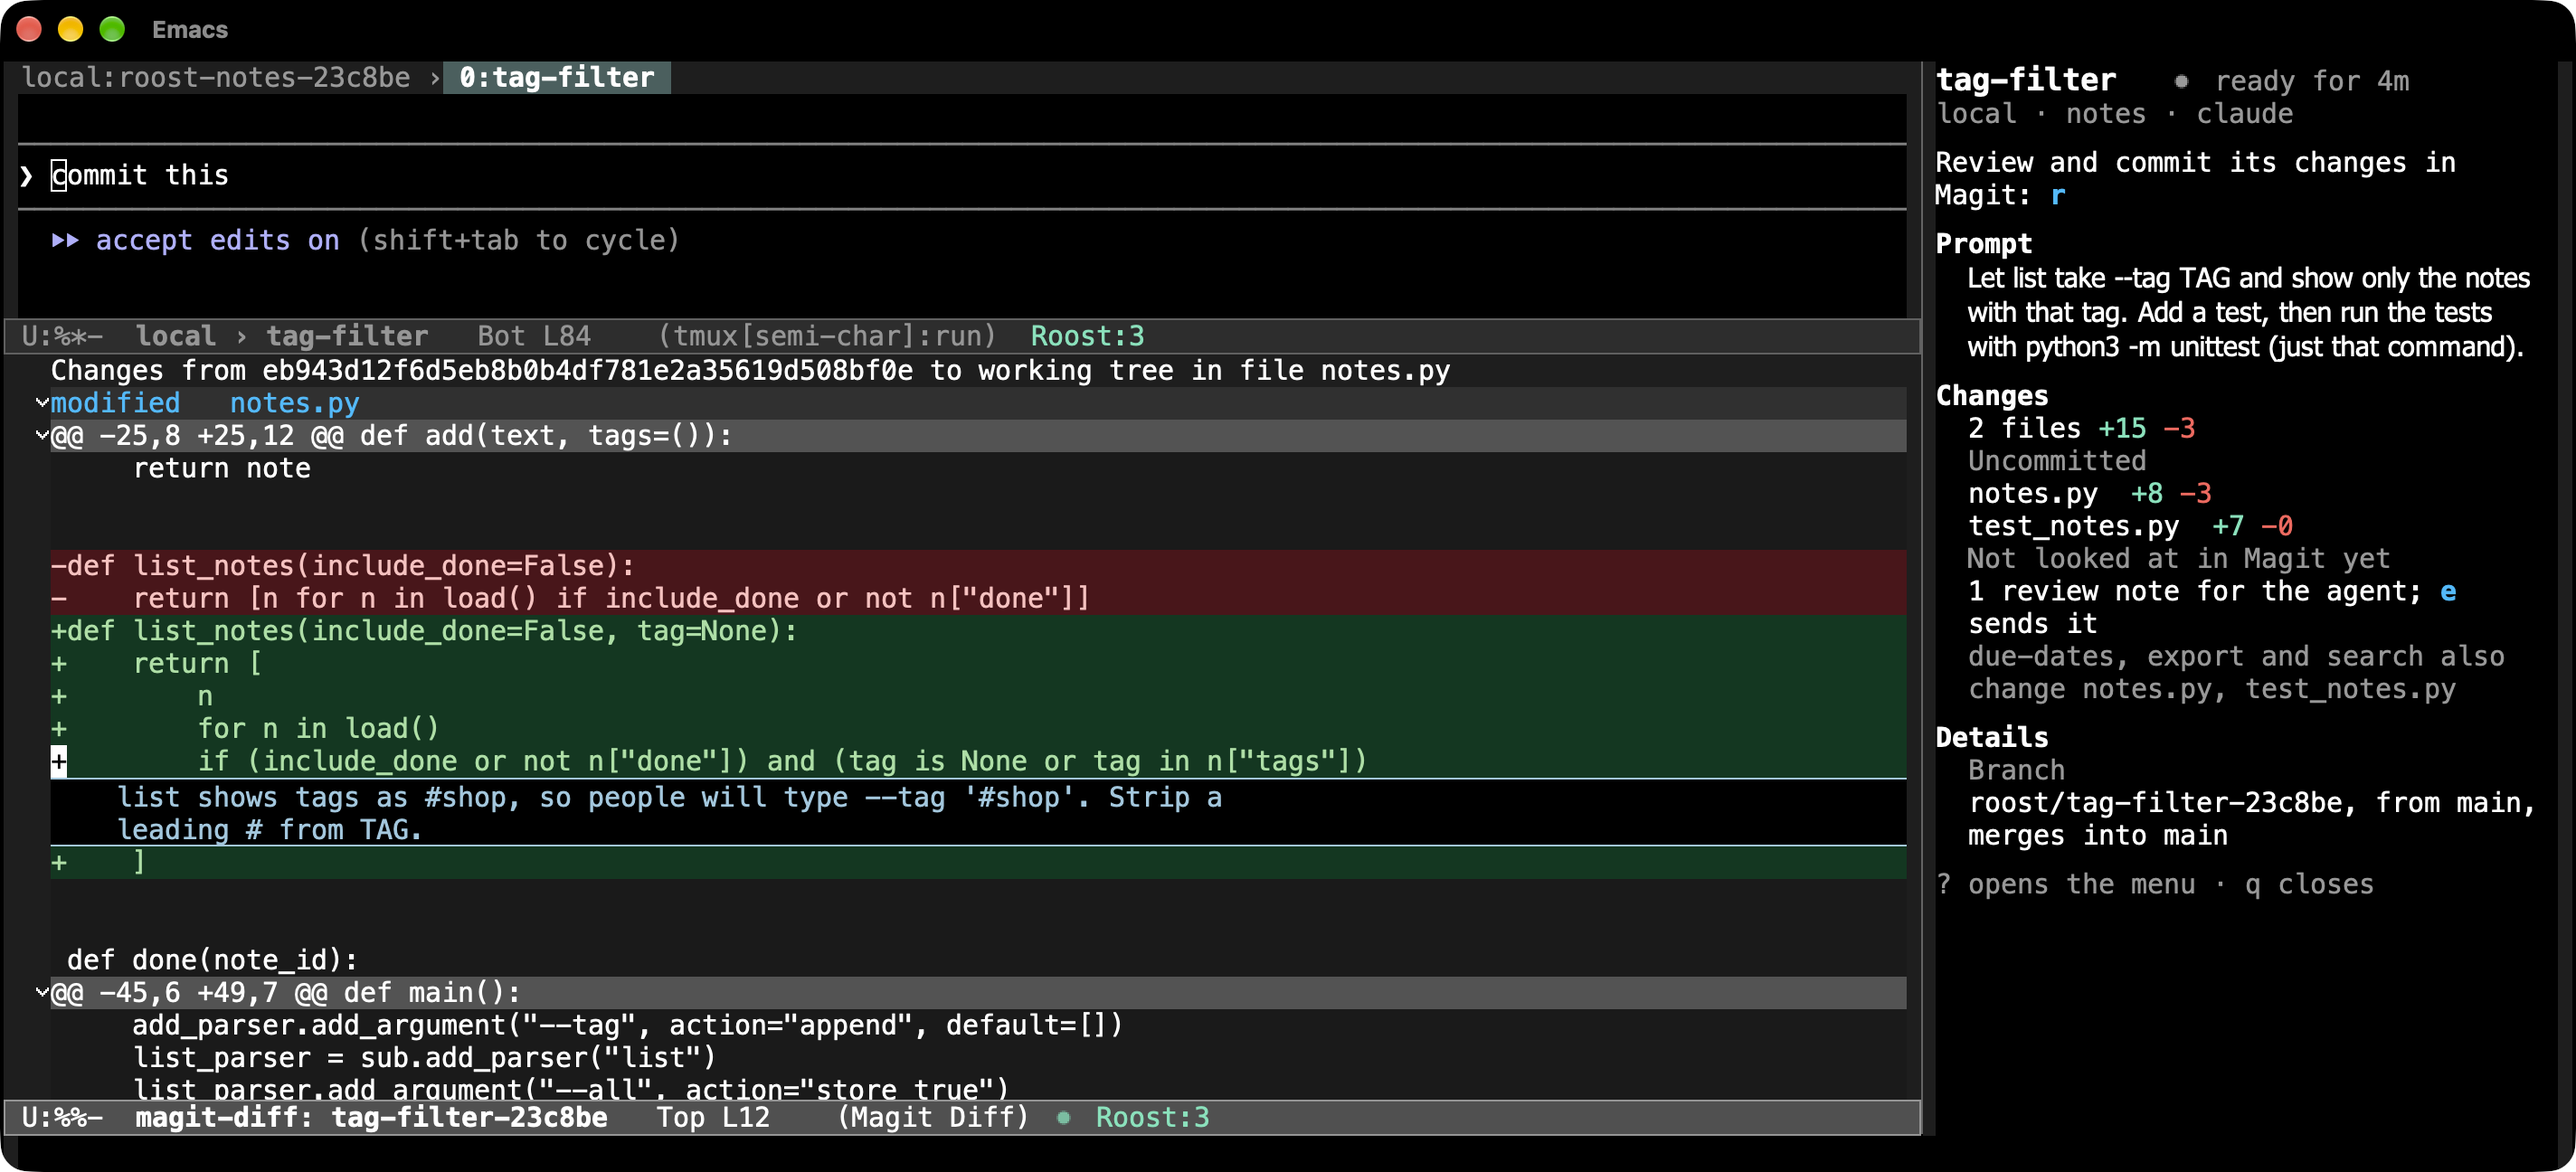
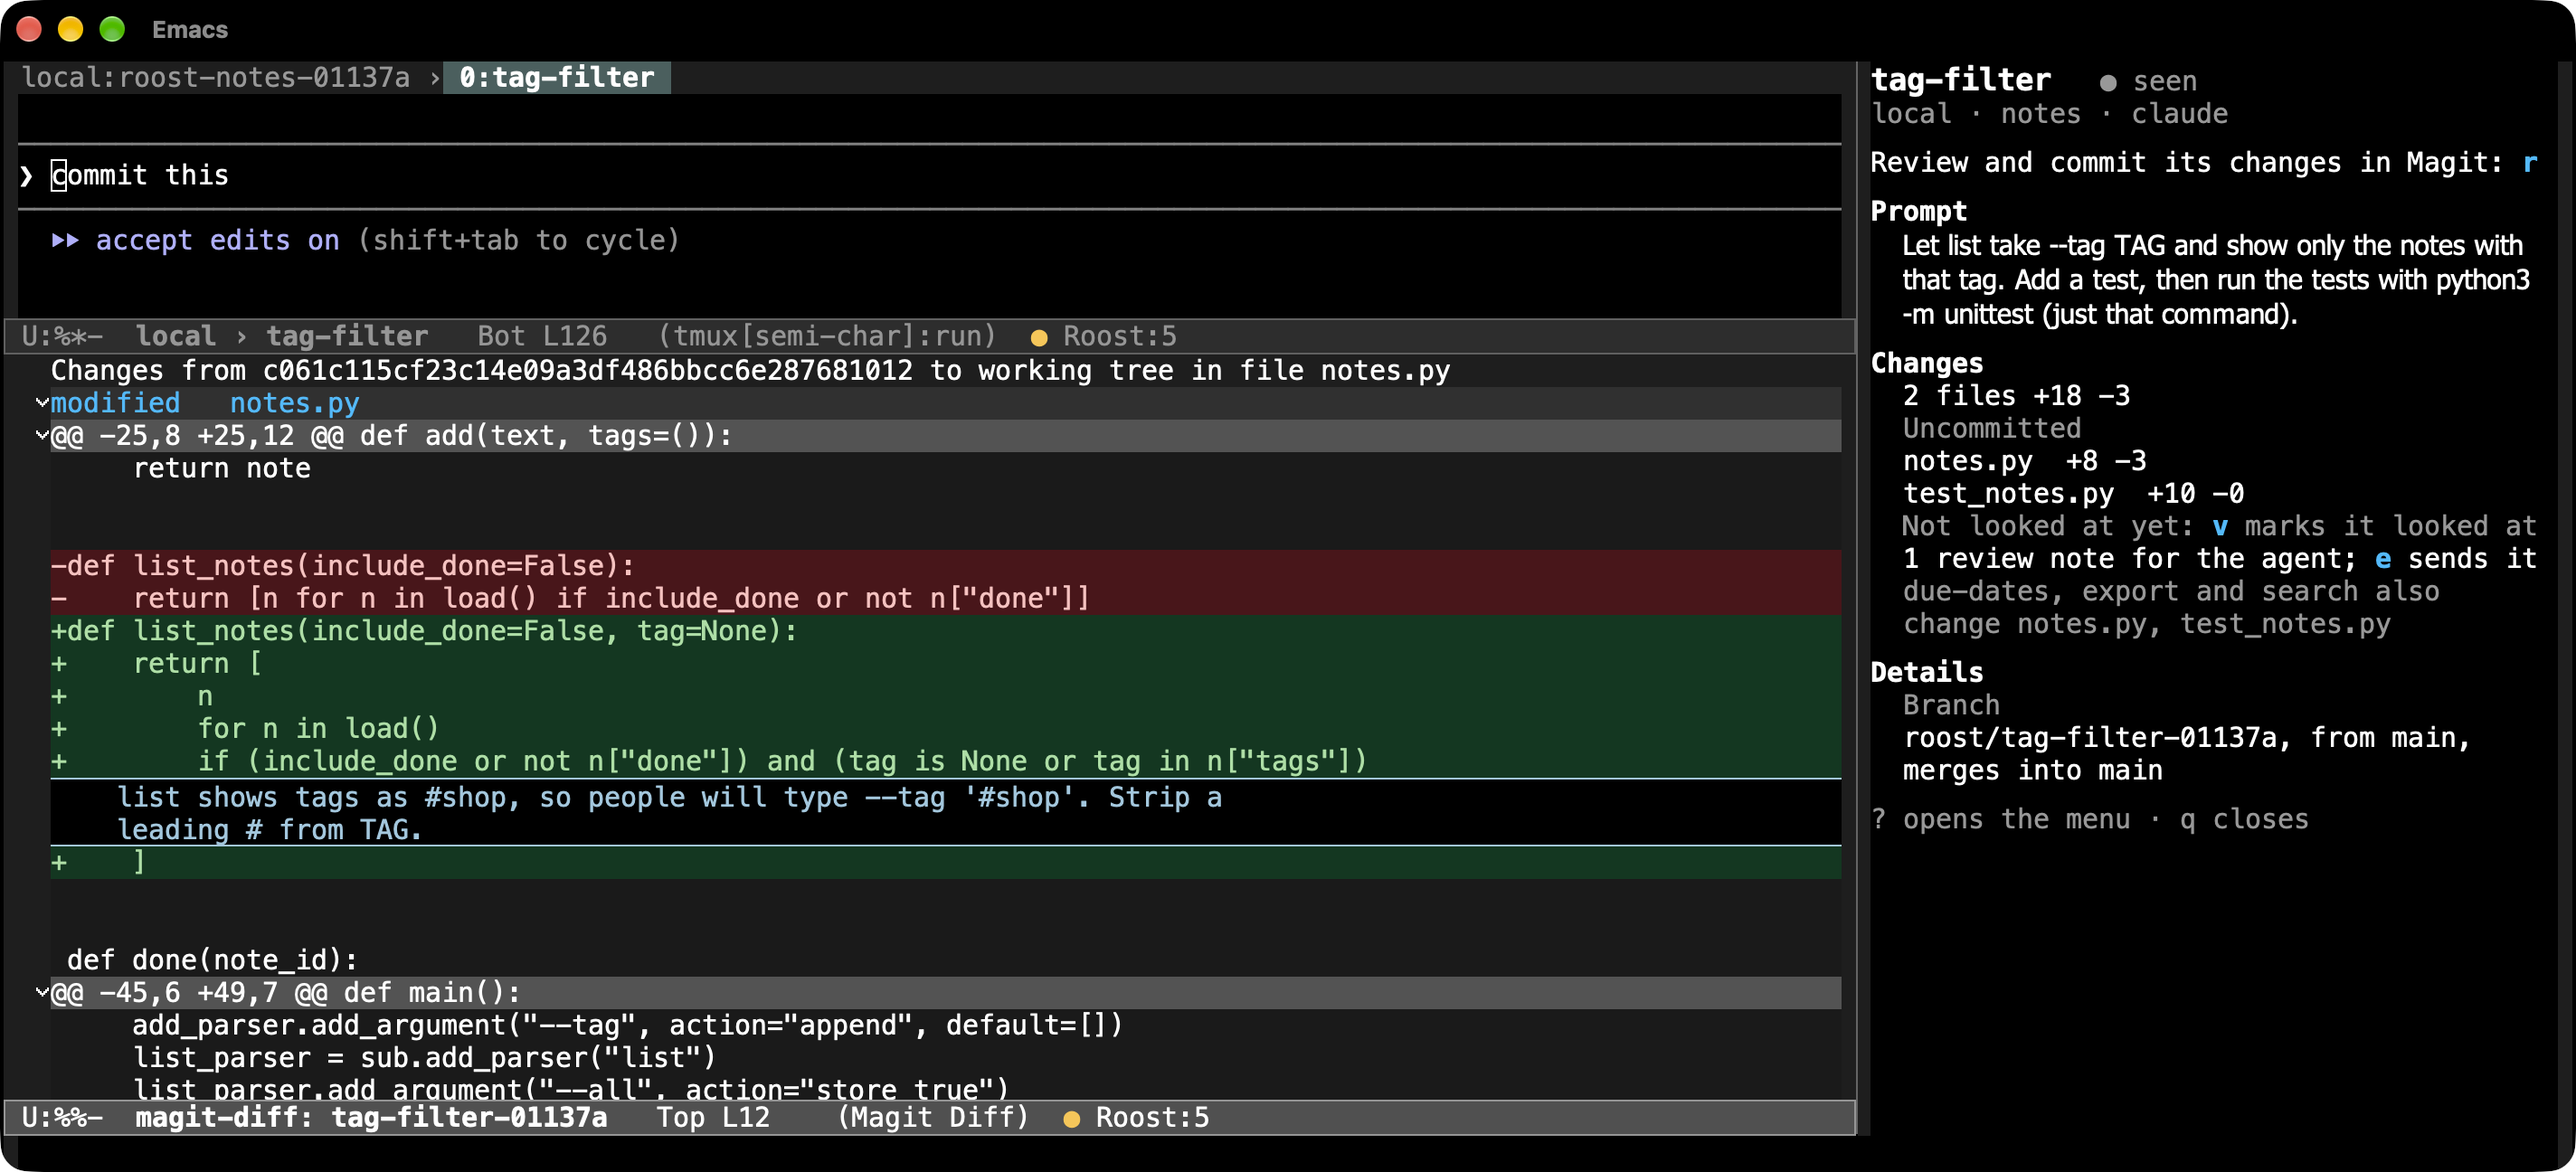
Retake the README's screenshots, name each task's tab or perspective, and fit v's hint in a docked panel (#143)

diff --git a/test/qa/qa.py b/test/qa/qa.py
@@ -1108,7 +1108,7 @@ def notes(qa, repo):
 
 @journey("What changed since you looked")
 def since_looked(qa, repo):
-    """A task you never looked at says so, until v marks it as looked at,
+    """A task you never looked at says so, until v marks it looked at,
     opening nothing; once its agent changes more, its row, panel, Magit
     and m say what changed since, as they do after a look in Magit."""
     if qa.emacs.eval("(and (require 'magit nil t) t)") != "t":
@@ -1134,7 +1134,7 @@ def since_looked(qa, repo):
     qa.wait("the mark", lambda s: row(s).endswith("not looked at"))
     qa.step("Not looked at yet", expect=[
         ("the panel says so, naming v, and r once, in the next step",
-         lambda s: "Not looked at yet: v marks it as looked at\n" in panel_text(qa, s)
+         lambda s: "Not looked at yet: v marks it looked at\n" in panel_text(qa, s)
          and "in Magit: r" in panel_text(qa, s) and ": r opens it" not in panel_text(qa, s)),
         ("it doesn't wait on you", lambda s: qa.task(s, name)["status"] == "idle")])
     # As for a task you judged by its panel, from its row.
@@ -1143,7 +1143,7 @@ def since_looked(qa, repo):
         raise Stuck("No row for %s in the sidebar" % name)
     qa.keys("v")
     qa.wait("the mark to go", lambda s: row(s) == name)
-    qa.step("v marks it as looked at", expect=[
+    qa.step("v marks it looked at", expect=[
         ("the echo area says so", lambda s: "Marked %s as looked at" % name in (s["echo"] or "")),
         ("the panel no longer says it isn't", lambda s: "Not looked at" not in panel_text(qa, s)
          and "since you looked" not in panel_text(qa, s)),
@@ -1157,7 +1157,7 @@ def since_looked(qa, repo):
     qa.wait("the count", lambda s: "since you looked" in panel_text(qa, s))
     qa.step("Changed since v", expect=[
         ("the panel counts from there, naming v, and r once, in the next step",
-         lambda s: re.search(r"1 file changed since you looked, \d+[smhd]\w* ago: v marks it as looked at\n",
+         lambda s: re.search(r"1 file changed since you looked, \d+[smhd]\w* ago: v marks it looked at\n",
                              panel_text(qa, s))),
         ("the sidebar says so", lambda s: row(s).endswith("1 file changed"))])
     qa.keys("C-c r r")
@@ -1181,7 +1181,7 @@ def since_looked(qa, repo):
     qa.wait("the count", lambda s: "since you looked" in panel_text(qa, s))
     qa.step("Changed since you looked", expect=[
         ("the panel says how much, that r shows it, and v",
-         lambda s: re.search(r"1 file changed since you looked, \d+[smhd]\w* ago: r shows them, v marks it as looked at",
+         lambda s: re.search(r"1 file changed since you looked, \d+[smhd]\w* ago: r shows them, v marks it looked at",
                              panel_text(qa, s))),
         ("the sidebar says so", lambda s: row(s).endswith("1 file changed")),
         ("it still doesn't wait on you", lambda s: qa.task(s, name)["status"] == "idle")])

diff --git a/docs/demo.md b/docs/demo.md
@@ -10,10 +10,10 @@ they asked before commands but not before edits.
 The capture Emacs was a plain Emacs 32 configuration, so that nothing personal
 distracts: the stock `modus-vivendi` theme and mode line, Menlo at 15 points,
 and Roost, tmux-control and Magit and nothing else. It had
-`roost-sidebar-mode`, `roost-task-panel-mode` and `roost-animations` on, and
-`roost-workspace` set to `nil`. It used a separate state directory and tmux
-socket named `roost-demo`; a normal setup shows `~/.local/share/roost` and
-your tmux-control socket.
+`roost-sidebar-mode` and `roost-task-panel-mode` on, `roost-animations` off,
+as it is by default, and `roost-workspace` set to `nil`. It used a separate
+state directory and tmux socket named `roost-demo`; a normal setup shows
+`~/.local/share/roost` and your tmux-control socket.
 
 | File | What it shows |
 | --- | --- |
@@ -24,17 +24,18 @@ your tmux-control socket.
 
 ## How they were made
 
-All four were taken on 2026-10-21, with Roost as of 0.10.0 and the changes
-after it from its UX review, replacing a clip that played a task through and
-the stills from before it. Five tasks were started with prompts that ask the
-agent to run the tests with `python3 -m unittest`, and their prompts
-answered in their terminals until each finished. `export` was then drafted
-from the heading in `plans.org`. To have one agent asking and one working at
-the moment of the hero and the dashboard, `budget-alerts` was asked to show
-amounts with a thousands separator and run its tests, and `export` was given
-a further prompt just before each capture. The review note was written in
-the note box and saved; the box itself floats over the diff in a frame of
-its own, which a capture of the Emacs window leaves out.
+All four were taken on 2026-10-24, with Roost as of 0.11.0 and the changes
+after it, once its views kept colour for what needs you and the panel beside
+a terminal had grown shorter. They replace the stills of 2026-10-21, which
+replaced a clip that played a task through. Five tasks were started with
+prompts that ask the agent to run the tests with `python3 -m unittest`, and
+their prompts answered in their terminals until each finished. `export` was
+then drafted from the heading in `plans.org`. To have one agent asking and
+one working at the moment of the hero and the dashboard, `budget-alerts` was
+asked to show amounts with a thousands separator and run its tests, and
+`export` was given a further prompt just before each capture. The review
+note was written in the note box and saved; the box itself floats over the
+diff in a frame of its own, which a capture of the Emacs window leaves out.
 
 Each was taken at its own frame size, so that the text reads at the width
 GitHub shows the README: 172 columns by 36 lines for the hero, 132 by 19 for

diff --git a/README.md b/README.md
@@ -12,7 +12,7 @@ worktree, a branch and a terminal, here or on any SSH host. It tells you which
 agents need you, and you review and merge their work with Magit. If you've
 used Orca, it's that idea, inside Emacs.
 
-![Emacs with three columns: Roost's sidebar listing six agents on two machines, the one you are on marked with a band and asking permission, two ready, two you have seen and one working; that agent's Claude Code terminal on the SSH host claylien, asking to run python3 -m unittest; and the task's panel, which says to answer it in its terminal and shows the prompt it was given, your latest prompt and the files it has changed](docs/images/roost-hero.png)
+![Emacs with three columns: Roost's sidebar listing six agents on two machines, the one you are on marked with a band and asking permission, three ready, one you have seen and one working; that agent's Claude Code terminal on the SSH host claylien, asking to run python3 -m unittest; and the task's panel, which says to answer it in its terminal and shows the prompt it was given, your latest prompt and the files it has changed](docs/images/roost-hero.png)
 
 *Six Claude Code agents on two machines. The one on `claylien` wants to run
 its tests: its own terminal in the middle, every task at the left, and at the
@@ -33,7 +33,9 @@ and a task's panel its keys work alone.
 
 2. **Go where you're needed.** While it works, an agent on `claylien` asks to
    run its tests. `C-c r n` takes you to the next agent waiting for you, and
-   you answer it in its own terminal.
+   you answer it in its own terminal. With perspective.el or `tab-bar-mode`
+   on, each task has a perspective or tab of its own, which keeps its
+   terminal, diffs and files together as you left them.
 3. **Review, and reply in place.** The panel beside the terminal lists the
    files the agent changed, and the other tasks that change them too. A
    click opens one's diff in Magit, `;` writes a note on a line, and `@` in
@@ -51,7 +53,7 @@ and a task's panel its keys work alone.
 it's doing, what it changed, and its latest reply or what it asks. A
 notification says the same when one finishes or asks for something.
 
-![The dashboard, counting 1 permission, 2 ready, 2 seen and 1 running: two tasks on claylien, one ready and one asking to run python3 -m unittest, and four local ones, one ready, two you have seen and one working, each with its changes and latest reply](docs/images/roost-dashboard.png)
+![The dashboard, counting 1 permission, 3 ready, 1 running and 1 seen: two tasks on claylien, one ready and one asking to run python3 -m unittest, and four local ones, two ready, one you have seen and one working, each with its changes and latest reply](docs/images/roost-dashboard.png)
 
 ## How it differs
 

diff --git a/docs/manual.md b/docs/manual.md
@@ -367,7 +367,7 @@ you judged by its panel, or whose diff you read in its agent's terminal.
 Once you've seen its agent's reply, the
 sidebar and dashboard say, dim, what changed since (`3 files changed since
 you looked`), and its panel says when you looked: `r` shows the changes, and
-`v` marks it as looked at. It
+`v` marks it looked at. It
 doesn't count as waiting. Roost compares content, so commits the agent
 makes of what you saw, amends or rebases don't count, nor do files only an
 update from the integration branch brought in; anything else changed does,
